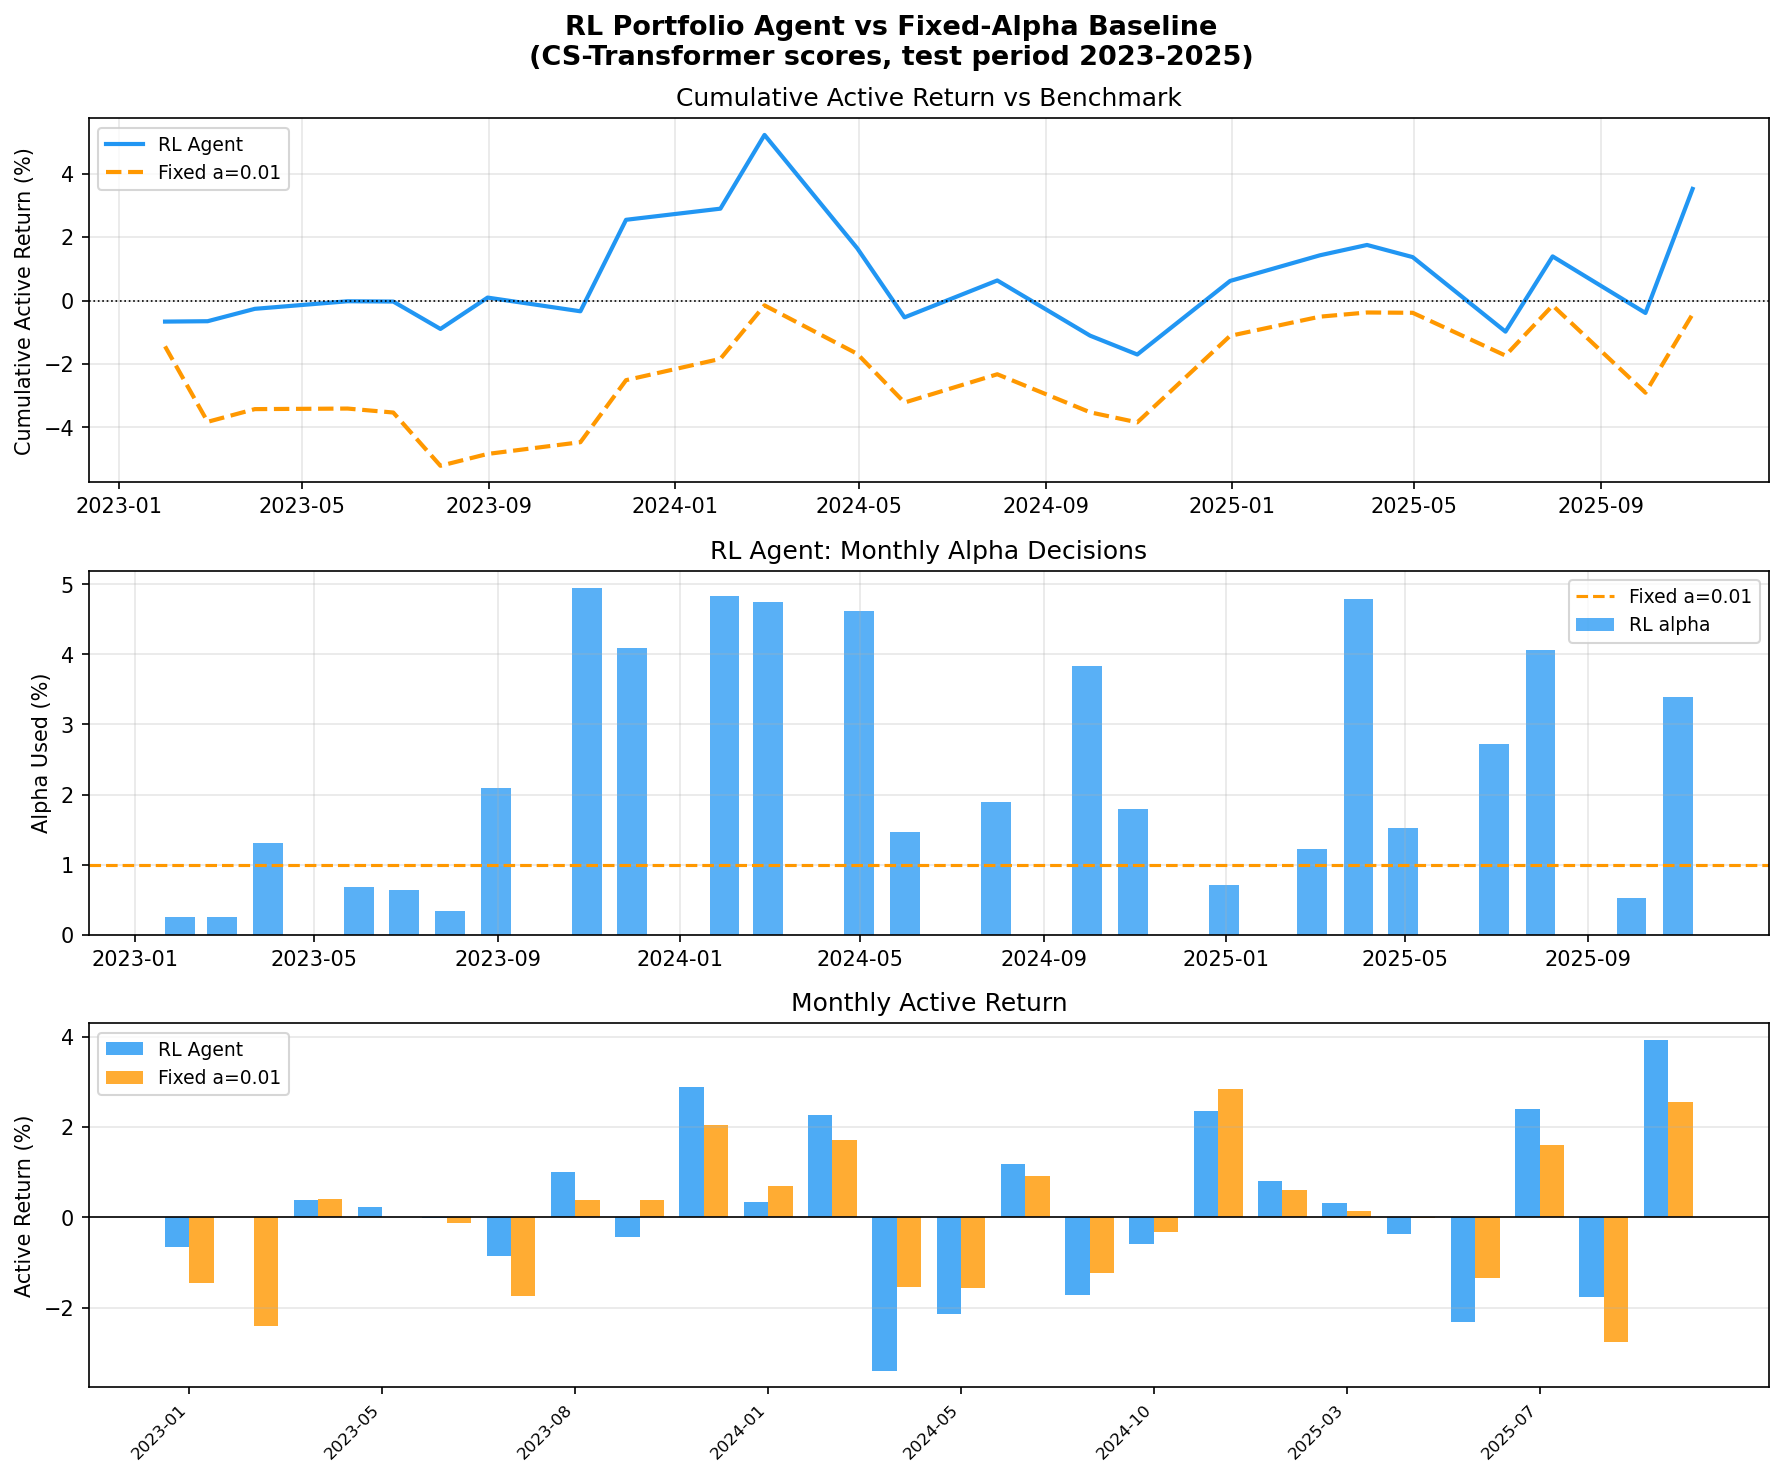
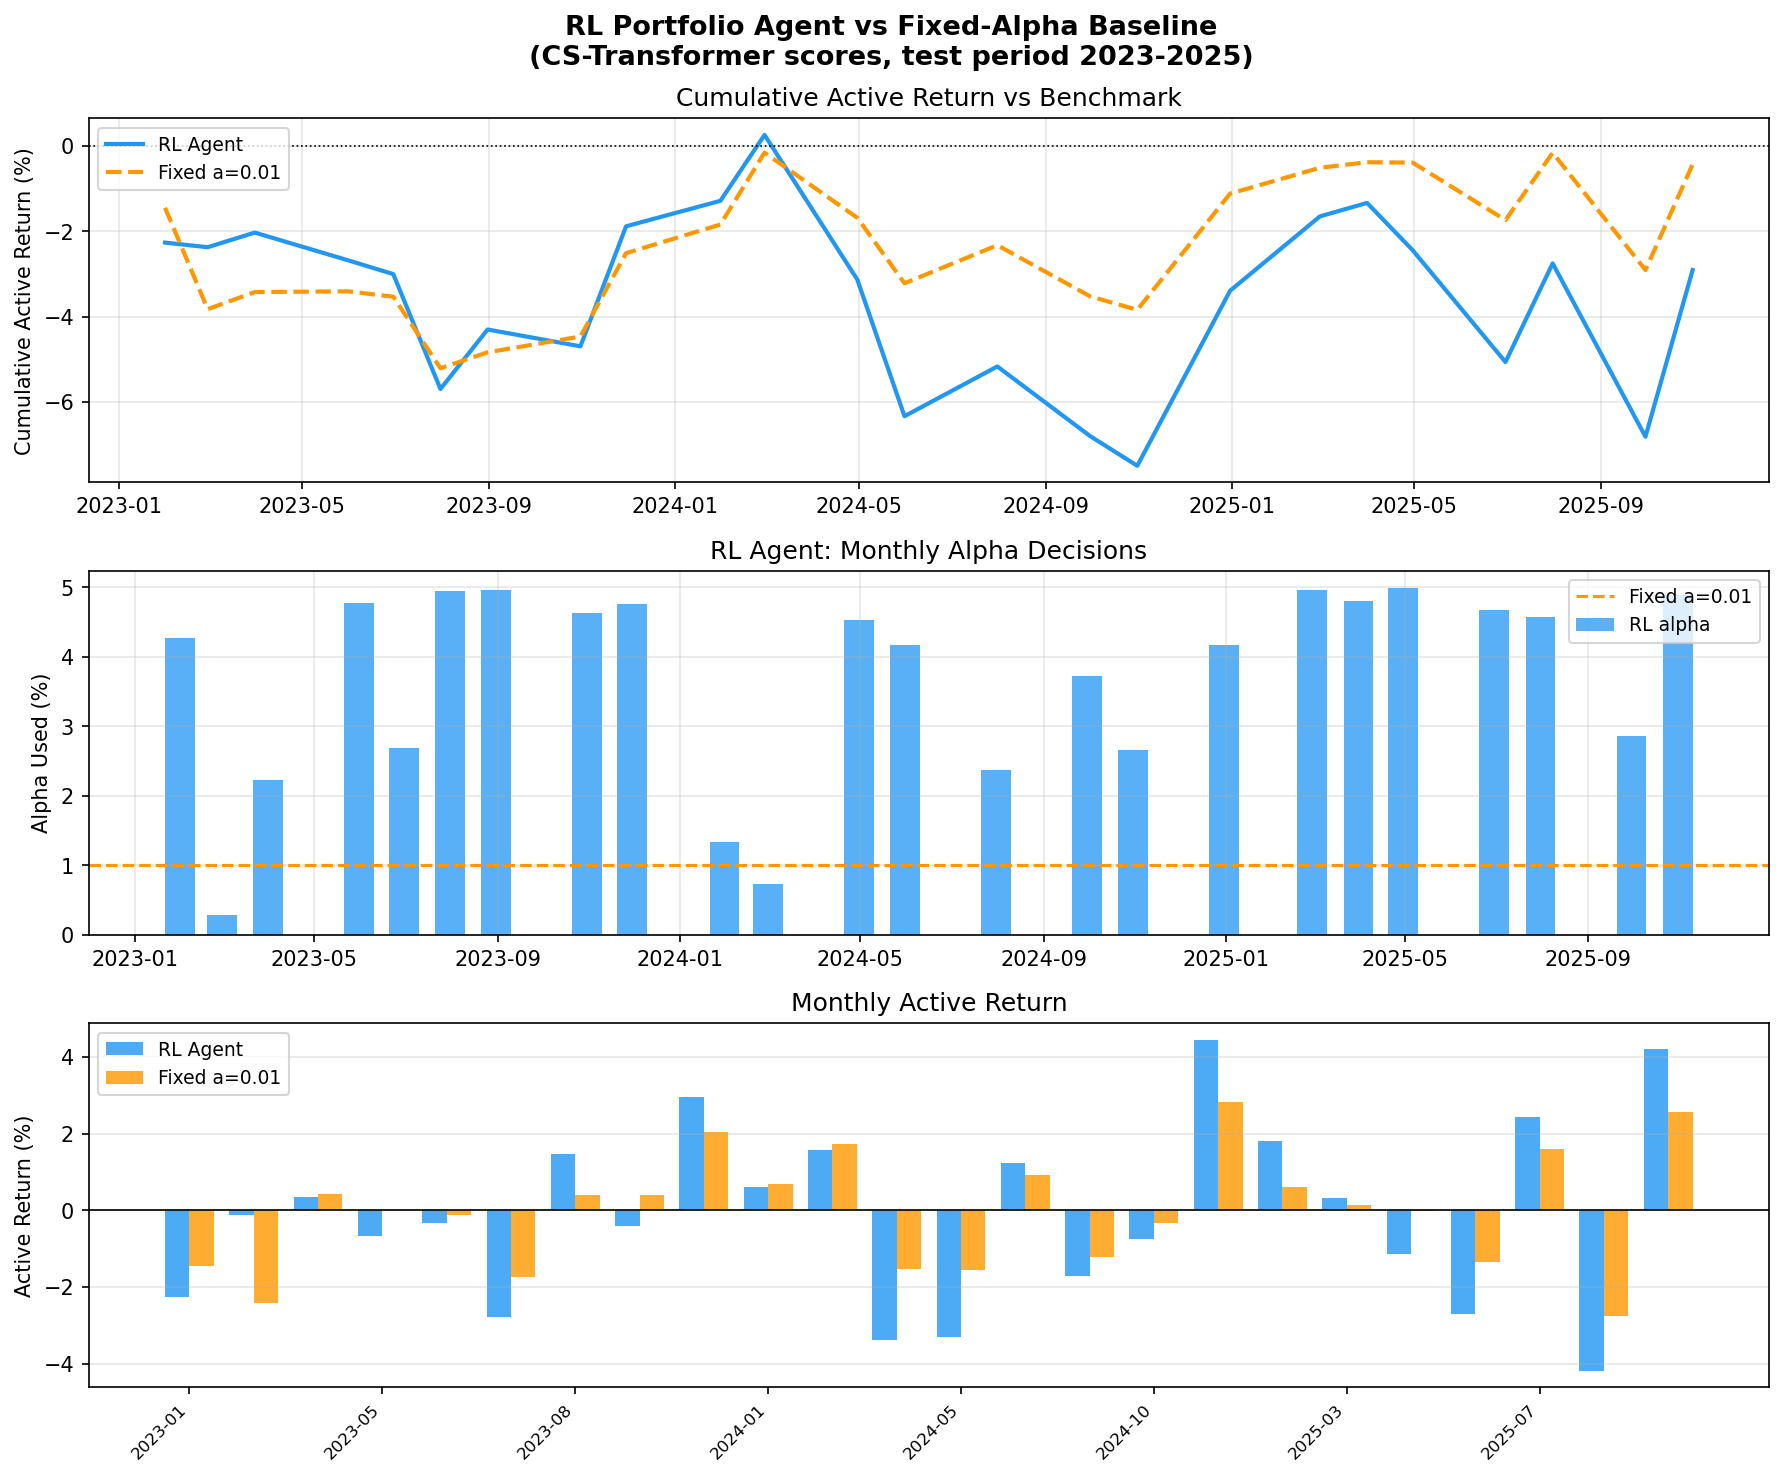
5arl, 6rd, fig

diff --git a/5a_rl_portfolio_agent.py b/5a_rl_portfolio_agent.py
@@ -231,9 +231,16 @@ def build_episodes(scores, weights, ref_alpha=0.01):
 
     df = pd.DataFrame(rows).set_index("date").sort_index()
 
-    df["bench_vol"]         = df["bench_ret"].rolling(3, min_periods=1).std() * np.sqrt(12)
-    df["rolling_te"]        = df["active_ret_ref"].rolling(3, min_periods=1).std() * np.sqrt(12)
-    df["recent_active_ret"] = df["active_ret_ref"].rolling(3, min_periods=1).mean()
+    # rolling(3, min_periods=2) avoids std=NaN on single-observation windows
+    df["bench_vol"]         = (df["bench_ret"]
+                               .rolling(3, min_periods=2).std()
+                               .fillna(df["bench_ret"].expanding().std())
+                               .fillna(0.0)) * np.sqrt(12)
+    df["rolling_te"]        = (df["active_ret_ref"]
+                               .rolling(3, min_periods=2).std()
+                               .fillna(df["active_ret_ref"].expanding().std())
+                               .fillna(0.0)) * np.sqrt(12)
+    df["recent_active_ret"] = df["active_ret_ref"].rolling(3, min_periods=1).mean().fillna(0.0)
 
     vol_med      = df["bench_vol"].expanding(min_periods=6).median()
     df["regime"] = (df["bench_vol"] > vol_med).astype(float).fillna(0.0)
@@ -241,8 +248,10 @@ def build_episodes(scores, weights, ref_alpha=0.01):
     for col in STATE_COLS:
         if col == "regime":
             continue
-        mu, sg    = df[col].mean(), df[col].std() + 1e-8
-        df[col]   = (df[col] - mu) / sg
+        mu, sg  = df[col].mean(), df[col].std() + 1e-8
+        df[col] = (df[col] - mu) / sg
+        # Replace any residual NaN / inf after normalisation and clip to ±5σ
+        df[col] = df[col].fillna(0.0).clip(-5.0, 5.0)
 
     return df
 
@@ -451,7 +460,10 @@ def train(agent, episodes):
         ep_rewards = []
 
         for i, (dt, row) in enumerate(train_rows):
-            state = np.nan_to_num(row[STATE_COLS].values.astype(np.float32), nan=0.0, posinf=0.0, neginf=0.0)
+            state = np.clip(
+                np.nan_to_num(row[STATE_COLS].values.astype(np.float32),
+                              nan=0.0, posinf=0.0, neginf=0.0),
+                -5.0, 5.0)
             alpha = agent.select_action(state)
 
             result = simulate_month(row["_scores"], row["_weights"], alpha=alpha)
@@ -497,7 +509,10 @@ def evaluate(agent, episodes, fixed_alpha=0.01):
         if str(dt.date()) < TEST_START:
             continue
 
-        state = np.nan_to_num(row[STATE_COLS].values.astype(np.float32), nan=0.0, posinf=0.0, neginf=0.0)
+        state = np.clip(
+            np.nan_to_num(row[STATE_COLS].values.astype(np.float32),
+                          nan=0.0, posinf=0.0, neginf=0.0),
+            -5.0, 5.0)
 
         if agent is not None:
             alpha_rl = agent.select_action(state, deterministic=True)

diff --git a/6_regime_dashboard.py b/6_regime_dashboard.py
@@ -780,22 +780,32 @@ with tab5:
                    "Run 1g_feature_engineering.py first.")
     else:
         # Controls
+        # fwd_ret_1m is raw (not normalised) → meaningful 3-D surface.
+        # Factor scores are rank-normalised to [−0.5, +0.5] → always a nearly flat
+        # linear ramp. For those, the 2-D percentile time-series chart below is the
+        # useful view — it shows HOW each percentile band evolved over time.
+        RAW_FACTORS    = {"fwd_ret_1m"}   # not rank-normalised
+        RANKED_FACTORS = {"vol_252d", "idio_vol_252d", "vol_126d", "ret_12m", "beta_252d"}
+
         col_feat, col_pct, col_yr = st.columns([2, 2, 2])
         with col_feat:
             vol_factor = st.selectbox(
                 "Factor:",
-                [
-                    "fwd_ret_1m",      # actual monthly returns — NOT normalised, best for regimes
-                    "vol_252d",        # cross-sectional rank score (flat by construction)
-                    "idio_vol_252d",
-                    "vol_126d",
-                    "ret_12m",
-                    "beta_252d",
-                ],
+                ["fwd_ret_1m", "vol_252d", "idio_vol_252d", "vol_126d", "ret_12m", "beta_252d"],
                 index=0,
                 key="vol_factor",
-                help="fwd_ret_1m (actual returns) produces the most visually meaningful surface. "
-                     "Factor scores are rank-normalised to [−0.5, +0.5] and produce a nearly flat surface.",
+                help="fwd_ret_1m shows actual monthly stock returns — the 3-D surface is most "
+                     "meaningful here (regime spikes visible). Factor scores (vol_252d etc.) are "
+                     "rank-normalised to [−0.5, +0.5]; their surface is flat by construction — "
+                     "use the Percentile Time Series chart below for those.",
+            )
+        is_ranked = vol_factor in RANKED_FACTORS
+        if is_ranked:
+            st.info(
+                f"**{vol_factor}** is cross-sectionally rank-normalised to [−0.5, +0.5]. "
+                "The 3-D surface will appear nearly flat — this is expected. "
+                "The **Percentile Time Series** chart below is the useful view for factor scores: "
+                "it shows how the top/bottom percentile bands evolved over time."
             )
         with col_pct:
             pct_step = st.select_slider(
